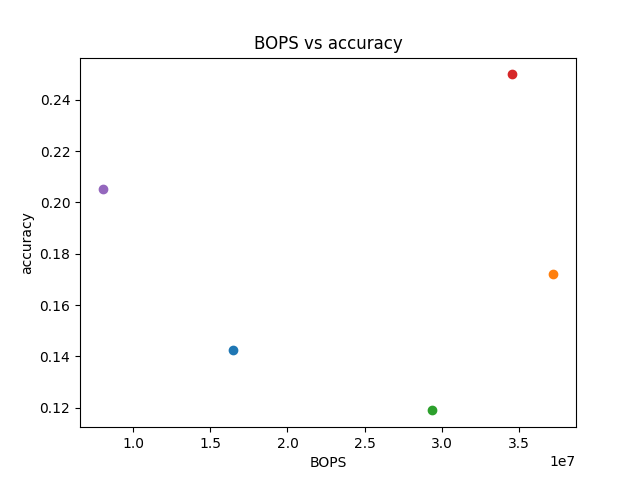
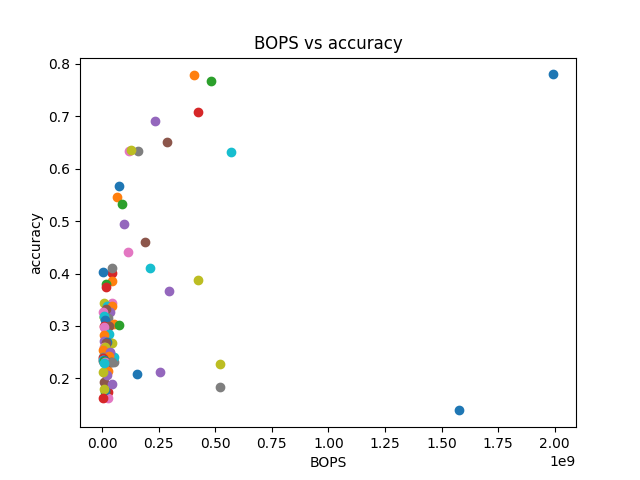
made a graph of 100 models

diff --git a/recieve_graph.py b/recieve_graph.py
@@ -1,7 +1,15 @@
 from determined.experimental import client
+from determined.common.experimental import trial
 import matplotlib.pyplot as plt
+
+
 errs = 0 
-trial_list =  client.get_experiment(37).get_trials()
+
+
+
+trial_list = client.get_experiment(37).get_trials(sort_by=trial.TrialSortBy.BEST_VALIDATION_METRIC)
+
+
 list_of_pairs = []
 for t in trial_list:
     try:
@@ -11,13 +19,11 @@ for t in trial_list:
         bop_number = checks.validation['metrics']['validationMetrics']['bops']
         accuracy = checks.validation['metrics']['validationMetrics']['validation_accuracy']
         pair = (t,bop_number,accuracy)
-        print(pair)
         list_of_pairs.append(pair)
 
     except:
 
         errs = errs + 1 
-print(list_of_pairs)
 
 
 fig, ax = plt.subplots()
